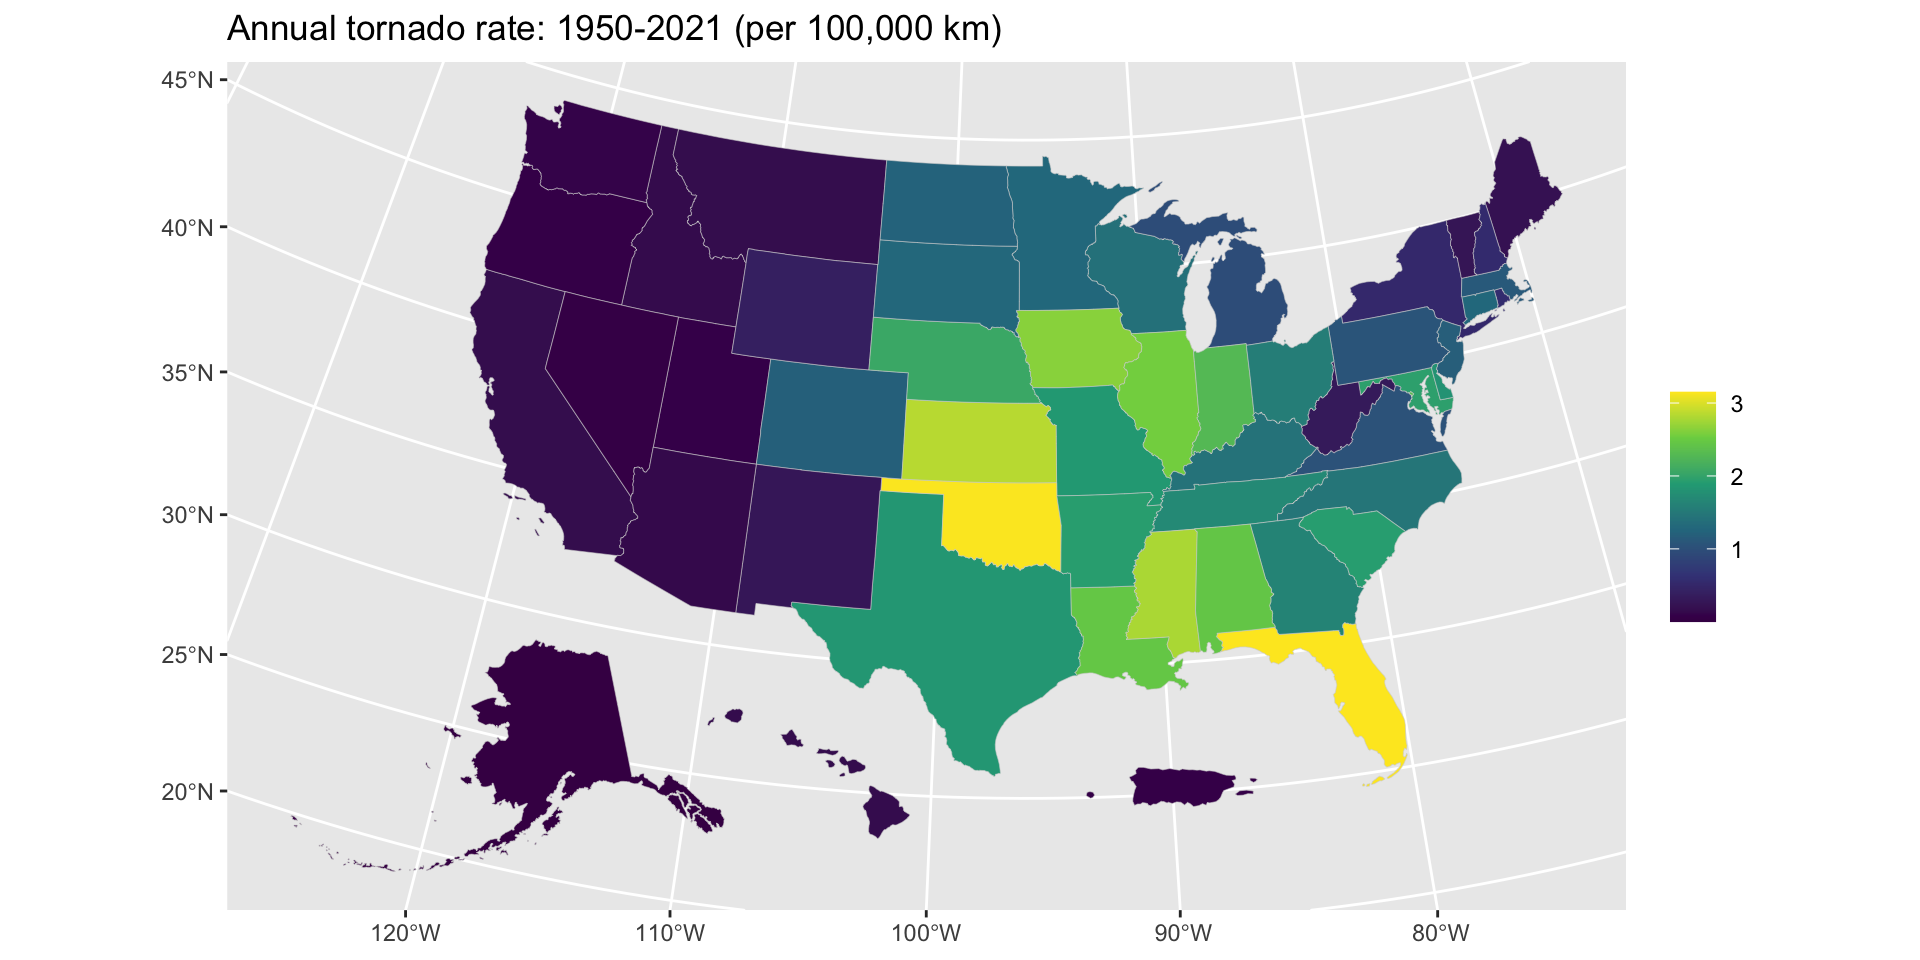
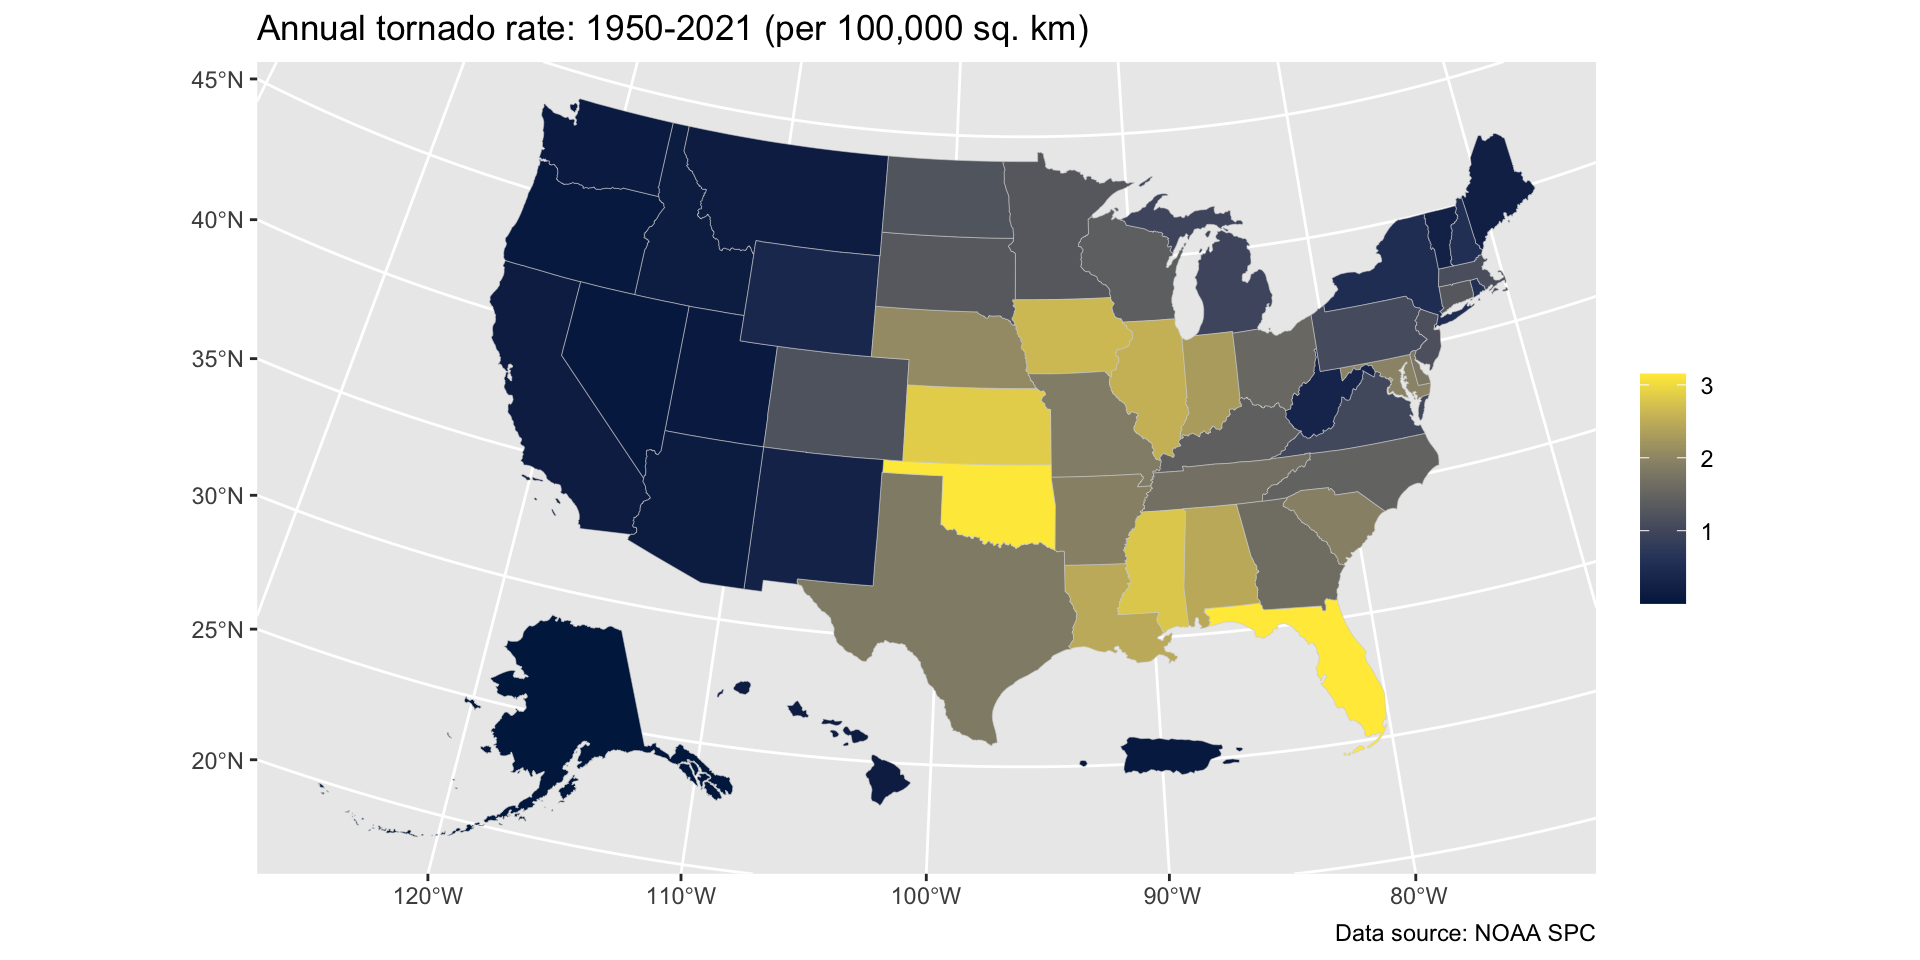
Lesson 23

diff --git a/23-analytics-tornadoes-frequency.html b/23-analytics-tornadoes-frequency.html
@@ -462,8 +462,8 @@
 </section>
 <section id="section-4" class="slide level2">
 <h2></h2>
-
-<img data-src="figures/BirminghamDamagePath.jpg" class="r-stretch quarto-figure-center"><p class="caption">Birmingham, AL tornado</p></section>
+<p><img data-src="figures/BirminghamDamagePath.jpg" alt="Birmingham, AL tornado"> <a href="https://en.wikipedia.org/wiki/Enhanced_Fujita_scale">EF rating</a></p>
+</section>
 <section id="section-5" class="slide level2">
 <h2></h2>
 <ul>
@@ -553,7 +553,7 @@ Projected CRS: USA_Contiguous_Albers_Equal_Area_Conic
 <section id="section-9" class="slide level2">
 <h2></h2>
 <ul>
-<li>Annual rate per 100 square kilometers (km<sub>2</sub>)</li>
+<li>Annual rate per 100 square kilometers (km^2)</li>
 </ul>
 <div class="cell">
 <div class="sourceCode cell-code" id="cb11"><pre class="sourceCode numberSource r number-lines code-with-copy"><code class="sourceCode r"><span id="cb11-1"><a href="#cb11-1"></a>States.sf <span class="ot">&lt;-</span> States.sf <span class="sc">|&gt;</span></span>
@@ -563,12 +563,79 @@ Projected CRS: USA_Contiguous_Albers_Equal_Area_Conic
 <span id="cb11-5"><a href="#cb11-5"></a></span>
 <span id="cb11-6"><a href="#cb11-6"></a><span class="fu">ggplot</span>(<span class="at">data =</span> States.sf,</span>
 <span id="cb11-7"><a href="#cb11-7"></a>       <span class="at">mapping =</span> <span class="fu">aes</span>(<span class="at">fill =</span> AnnualRate)) <span class="sc">+</span></span>
-<span id="cb11-8"><a href="#cb11-8"></a>  <span class="fu">scale_fill_viridis_c</span>() <span class="sc">+</span></span>
+<span id="cb11-8"><a href="#cb11-8"></a>  <span class="fu">scale_fill_viridis_c</span>(<span class="at">option =</span> <span class="st">"cividis"</span>) <span class="sc">+</span></span>
 <span id="cb11-9"><a href="#cb11-9"></a>  <span class="fu">geom_sf</span>(<span class="at">color =</span> <span class="st">"lightgrey"</span>, <span class="at">size =</span> .<span class="dv">1</span>) <span class="sc">+</span></span>
-<span id="cb11-10"><a href="#cb11-10"></a>  <span class="fu">labs</span>(<span class="at">title =</span> <span class="st">"Annual tornado rate: 1950-2021 (per 100,000 km)"</span>, <span class="at">fill =</span> <span class="st">""</span>)</span></code><button title="Copy to Clipboard" class="code-copy-button"><i class="bi"></i></button></pre></div>
+<span id="cb11-10"><a href="#cb11-10"></a>  <span class="fu">labs</span>(<span class="at">title =</span> <span class="st">"Annual tornado rate: 1950-2021 (per 100,000 sq. km)"</span>, </span>
+<span id="cb11-11"><a href="#cb11-11"></a>       <span class="at">fill =</span> <span class="st">""</span>, <span class="at">caption =</span> <span class="st">"Data source: NOAA SPC"</span>)</span></code><button title="Copy to Clipboard" class="code-copy-button"><i class="bi"></i></button></pre></div>
 
 </div>
-<img data-src="23-analytics-tornadoes-frequency_files/figure-revealjs/unnamed-chunk-7-1.png" width="960" class="r-stretch"><div class="footer footer-default">
+<img data-src="23-analytics-tornadoes-frequency_files/figure-revealjs/unnamed-chunk-7-1.png" width="960" class="r-stretch"></section>
+<section id="section-10" class="slide level2">
+<h2></h2>
+<ul>
+<li>Time series comparing the frequency of tornadoes in Tornado alley and Dixie alley</li>
+<li>Count by states and year</li>
+</ul>
+<div class="cell">
+<div class="sourceCode cell-code" id="cb12"><pre class="sourceCode numberSource r number-lines code-with-copy"><code class="sourceCode r"><span id="cb12-1"><a href="#cb12-1"></a>Counts.df <span class="ot">&lt;-</span> Torn.df <span class="sc">|&gt;</span></span>
+<span id="cb12-2"><a href="#cb12-2"></a>  dplyr<span class="sc">::</span><span class="fu">filter</span>(mag <span class="sc">&gt;=</span> <span class="dv">2</span>) <span class="sc">|&gt;</span></span>
+<span id="cb12-3"><a href="#cb12-3"></a>  dplyr<span class="sc">::</span><span class="fu">mutate</span>(<span class="at">Alley =</span> dplyr<span class="sc">::</span><span class="fu">case_when</span>(st <span class="sc">%in%</span> <span class="fu">c</span>(<span class="st">"KS"</span>, <span class="st">"OK"</span>) <span class="sc">~</span> <span class="st">"Tornado Alley"</span>,</span>
+<span id="cb12-4"><a href="#cb12-4"></a>                                          st <span class="sc">%in%</span> <span class="fu">c</span>(<span class="st">"MS"</span>, <span class="st">"AL"</span>) <span class="sc">~</span> <span class="st">"Dixie Alley"</span>,</span>
+<span id="cb12-5"><a href="#cb12-5"></a>                                          <span class="cn">TRUE</span> <span class="sc">~</span> <span class="st">"Outside"</span>)) <span class="sc">|&gt;</span></span>
+<span id="cb12-6"><a href="#cb12-6"></a>  dplyr<span class="sc">::</span><span class="fu">group_by</span>(Alley, yr) <span class="sc">|&gt;</span></span>
+<span id="cb12-7"><a href="#cb12-7"></a>  dplyr<span class="sc">::</span><span class="fu">summarize</span>(<span class="at">nT =</span> dplyr<span class="sc">::</span><span class="fu">n</span>())</span>
+<span id="cb12-8"><a href="#cb12-8"></a></span>
+<span id="cb12-9"><a href="#cb12-9"></a>Counts.df <span class="sc">|&gt;</span></span>
+<span id="cb12-10"><a href="#cb12-10"></a>  <span class="fu">head</span>()</span></code><button title="Copy to Clipboard" class="code-copy-button"><i class="bi"></i></button></pre></div>
+<div class="cell-output cell-output-stdout">
+<pre><code># A tibble: 6 × 3
+# Groups:   Alley [1]
+  Alley          yr    nT
+  &lt;chr&gt;       &lt;dbl&gt; &lt;int&gt;
+1 Dixie Alley  1950    10
+2 Dixie Alley  1951     8
+3 Dixie Alley  1952     7
+4 Dixie Alley  1953    28
+5 Dixie Alley  1954    14
+6 Dixie Alley  1955    10</code></pre>
+</div>
+</div>
+</section>
+<section id="section-11" class="slide level2">
+<h2></h2>
+<div class="cell">
+<div class="sourceCode cell-code" id="cb14"><pre class="sourceCode numberSource r number-lines code-with-copy"><code class="sourceCode r"><span id="cb14-1"><a href="#cb14-1"></a>Counts.df <span class="sc">|&gt;</span></span>
+<span id="cb14-2"><a href="#cb14-2"></a>  dplyr<span class="sc">::</span><span class="fu">filter</span>(<span class="sc">!</span>Alley <span class="sc">==</span> <span class="st">"Outside"</span>) <span class="sc">|&gt;</span></span>
+<span id="cb14-3"><a href="#cb14-3"></a><span class="fu">ggplot</span>(<span class="at">mapping =</span> <span class="fu">aes</span>(<span class="at">x =</span> yr, <span class="at">y =</span> nT, <span class="at">color =</span> Alley)) <span class="sc">+</span></span>
+<span id="cb14-4"><a href="#cb14-4"></a>  <span class="fu">geom_point</span>() <span class="sc">+</span> <span class="fu">geom_line</span>() <span class="sc">+</span></span>
+<span id="cb14-5"><a href="#cb14-5"></a>  <span class="fu">geom_smooth</span>(<span class="at">method =</span> glm, </span>
+<span id="cb14-6"><a href="#cb14-6"></a>              <span class="at">method.args =</span> <span class="fu">list</span>(<span class="at">family =</span> <span class="st">'poisson'</span>), <span class="at">se =</span> <span class="cn">FALSE</span>) <span class="sc">+</span></span>
+<span id="cb14-7"><a href="#cb14-7"></a>  <span class="fu">scale_color_manual</span>(<span class="at">values =</span> <span class="fu">c</span>(<span class="st">"#b87333"</span>, <span class="st">"#478ccc"</span>)) <span class="sc">+</span></span>
+<span id="cb14-8"><a href="#cb14-8"></a>  <span class="fu">scale_x_continuous</span>(<span class="at">breaks =</span> <span class="fu">seq</span>(<span class="dv">1950</span>, <span class="dv">2020</span>, <span class="at">by =</span> <span class="dv">10</span>)) <span class="sc">+</span></span>
+<span id="cb14-9"><a href="#cb14-9"></a>  <span class="fu">labs</span>(<span class="at">x =</span> <span class="st">""</span>, <span class="at">y =</span> <span class="st">""</span>, <span class="at">color =</span> <span class="st">""</span>,</span>
+<span id="cb14-10"><a href="#cb14-10"></a>       <span class="at">title =</span> <span class="st">"Decreasing number of tornadoes rated as causing significant damage"</span>,</span>
+<span id="cb14-11"><a href="#cb14-11"></a>       <span class="at">subtitle =</span> <span class="st">"Annual number of (E)F2+ tornadoes originating in portions of Dixie Alley (MS, AL) and</span><span class="sc">\n</span><span class="st"> Tornado Alley (OK, KS)"</span>, </span>
+<span id="cb14-12"><a href="#cb14-12"></a>       <span class="at">caption =</span> <span class="st">"Data source: NOAA SPC"</span>) <span class="sc">+</span> <span class="fu">theme_minimal</span>()</span></code><button title="Copy to Clipboard" class="code-copy-button"><i class="bi"></i></button></pre></div>
+</div>
+
+</section>
+<section id="section-11-output" class="slide level2 output-location-slide"><h2></h2><div class="cell output-location-slide">
+<div class="cell-output-display">
+<p><img data-src="23-analytics-tornadoes-frequency_files/figure-revealjs/unnamed-chunk-9-1.png" width="960"></p>
+</div>
+</div></section><section id="section-12" class="slide level2">
+<h2></h2>
+<ul>
+<li>Correlation in annual counts</li>
+</ul>
+<div class="cell">
+<div class="sourceCode cell-code" id="cb15"><pre class="sourceCode numberSource r number-lines code-with-copy"><code class="sourceCode r"><span id="cb15-1"><a href="#cb15-1"></a><span class="fu">cor</span>(Counts.df<span class="sc">$</span>nT[Counts.df<span class="sc">$</span>Alley <span class="sc">==</span> <span class="st">"Tornado Alley"</span>],</span>
+<span id="cb15-2"><a href="#cb15-2"></a>    Counts.df<span class="sc">$</span>nT[Counts.df<span class="sc">$</span>Alley <span class="sc">==</span> <span class="st">"Dixie Alley"</span>])</span></code><button title="Copy to Clipboard" class="code-copy-button"><i class="bi"></i></button></pre></div>
+<div class="cell-output cell-output-stdout">
+<pre><code>[1] 0.1287153</code></pre>
+</div>
+</div>
+<div class="footer footer-default">
 <p>GEO4251 Climate Change &amp; Storms</p>
 </div>
 </section>
